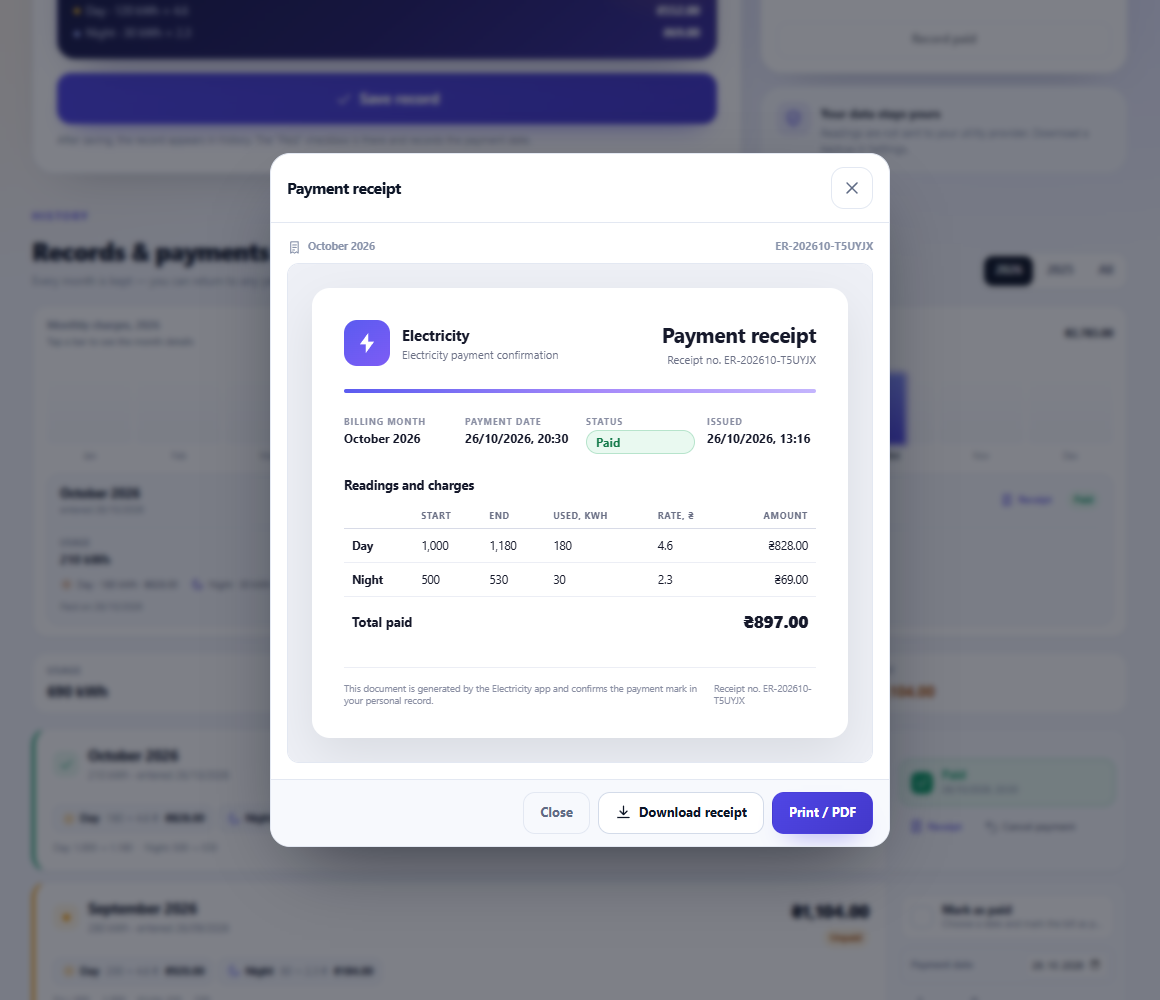
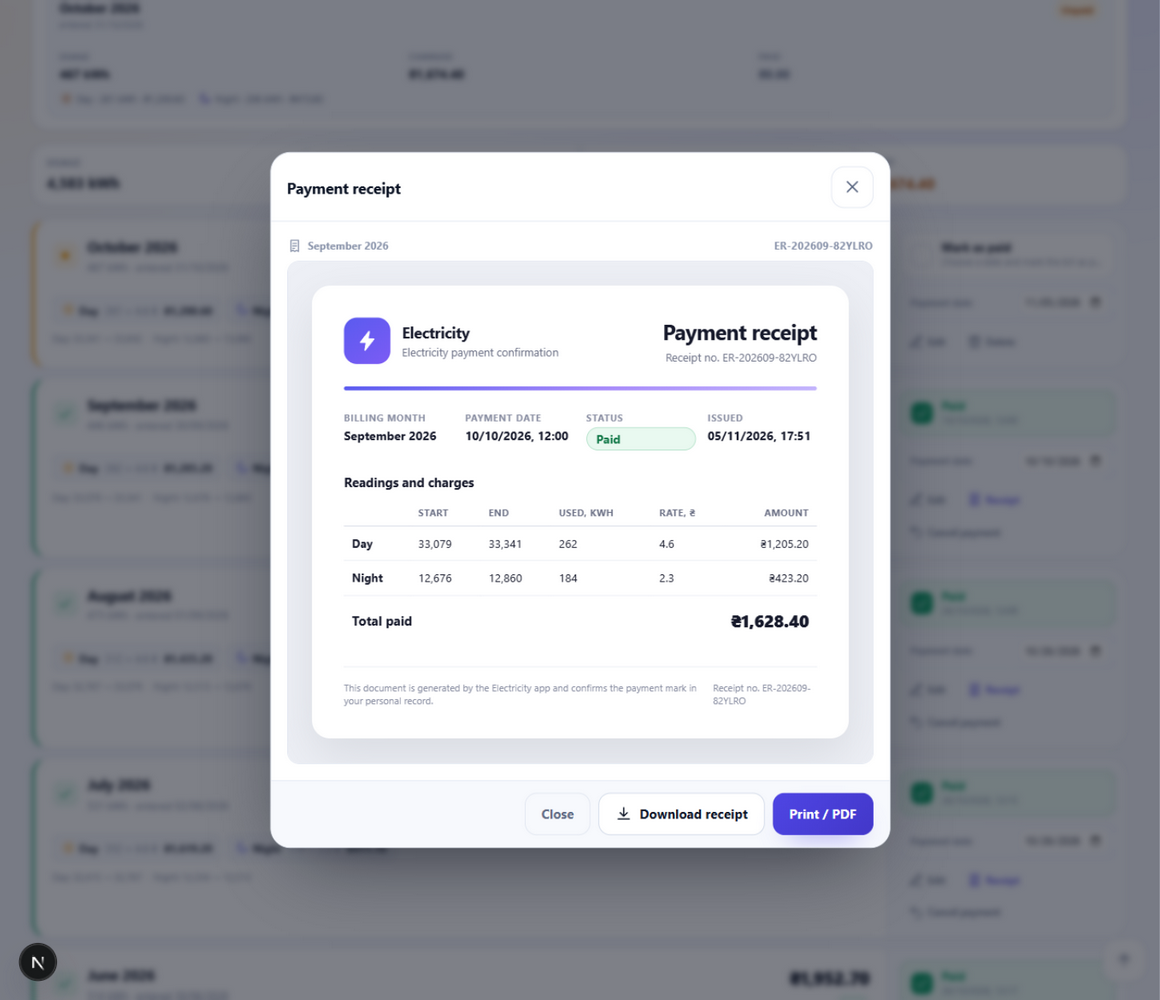
docs: refresh screenshots and describe instant tab switching, receipts on demand
- retake all four screenshots on the current UI (English locale, same dimensions)
- receipts section now matches the actual behaviour: opens on demand, never
  saved automatically; ER- (bolt) and GR- (flame) marks described
- features: shared store across Electricity/Gas pages, sticky meter nav,
  adaptive tab title, animated cold-start splash, busy bar, back-to-top

diff --git a/README.md b/README.md
@@ -26,7 +26,9 @@ and the amount due. The history of calculations and payments is kept for years.
   electricity page — one month may hold a record of each type. Older records that
   stored gas together with electricity are migrated automatically on first load:
   the gas part becomes a separate gas record. Switch pages via the Electricity/Gas
-  navigation under the header.
+  navigation under the header — it stays visible while scrolling on mobile, and both
+  pages share one data store, so switching is instant with no loading screens. The
+  topbar brand and the browser tab title follow the active meter.
 - **Reading entry date.** Saved together with every calculation.
 - **Payment date and receipt.** Pick the actual payment date, confirm the payment, and
   the app marks the bill as paid and opens the receipt. The file is **not** downloaded
@@ -46,6 +48,11 @@ and the amount due. The history of calculations and payments is kept for years.
   it was saved, so old amounts never change retroactively. New records use the
   current default rates.
 - **Installable on a phone.** PWA manifest and icons; add it to the home screen.
+  A cold start shows a short animated splash (pulsing logo, orbiting ring) on the
+  same dark background as the system launch screen, so the handoff is seamless.
+- **Quiet progress feedback.** Cloud saves, payments, and imports show a slim
+  indeterminate bar along the top edge instead of blocking dialogs, and a floating
+  back-to-top button appears when the history is scrolled deep.
 - **Seven colour schemes.** Classic, Sky, Emerald, Sunset, Rose, Midnight, and
   Graphite — five light and two dark palettes, picked in Settings. The choice is
   remembered on the device and applied before the first paint, so a dark scheme never
@@ -65,9 +72,10 @@ and the amount due. The history of calculations and payments is kept for years.
 ## Receipts
 
 Every payment produces an electronic receipt with the billing month, payment date,
-day/night readings, tariff rates, and the amount paid. The HTML file is saved
-automatically; it can also be reopened from the history, downloaded again, or printed
-to PDF.
+day/night (or gas) readings, tariff rates, and the amount paid. The receipt never
+interrupts you: it opens on demand from the month details or the record card, and
+from there it can be downloaded as HTML or printed to PDF. Electricity receipts
+carry a bolt mark and an ER- number; gas receipts a flame mark and a GR- number.
 
 <p align="center">
   <img src="docs/screenshot-receipt.png" alt="Electronic payment receipt" width="760" />
